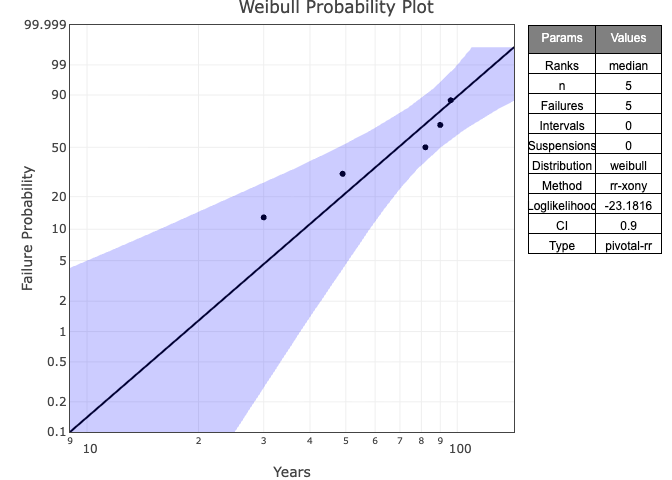
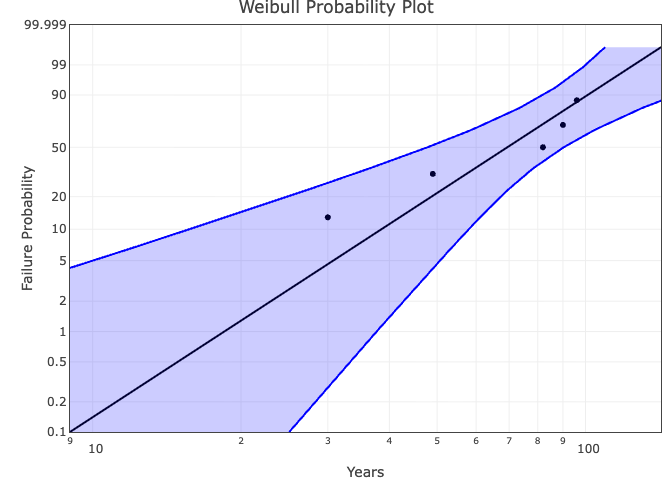
Update README

diff --git a/ReadMe.md b/ReadMe.md
@@ -2,6 +2,7 @@
 # ReliaPlotR
 
 <!-- badges: start -->
+
 [![Project Status: Active – The project has reached a stable, usable
 state and is being actively
 developed.](https://www.repostatus.org/badges/latest/active.svg)](https://www.repostatus.org/#active)
@@ -12,10 +13,11 @@ status](https://www.r-pkg.org/badges/version/ReliaPlotR)](https://CRAN.R-project
 coverage](https://codecov.io/gh/paulgovan/ReliaPlotR/graph/badge.svg)](https://app.codecov.io/gh/paulgovan/ReliaPlotR)
 [![](http://cranlogs.r-pkg.org/badges/last-month/ReliaPlotR)](https://cran.r-project.org/package=ReliaPlotR)
 [![](http://cranlogs.r-pkg.org/badges/grand-total/ReliaPlotR)](https://cran.r-project.org/package=ReliaPlotR)
+
 <!-- badges: end -->
 
-Build interactive Reliability Probability Plots with `plotly`, an interactive web-based
-graphing library.
+Build interactive Reliability Probability Plots with `plotly`, an
+interactive web-based graphing library.
 
 # Getting Started
 
